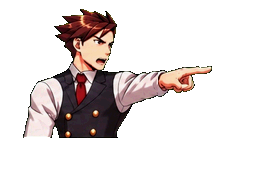
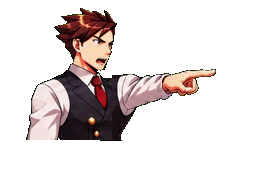
Justo: pose de apuntar con el cuerpo y el otro brazo del cuadro natural (ap13) y el brazo extendido actual
Claude-Session: https://claude.ai/code/session_01Xb94a44mJyTYV8GKKMfxw2

Changed region(s): [[0.0938, 0.0312, 0.8438, 0.75]]

diff --git a/prueba-final.html b/prueba-final.html
@@ -5,7 +5,7 @@
 <meta name="viewport" content="width=device-width, initial-scale=1">
 <title>ACTA CERO — Prueba del final</title>
 <link href="https://fonts.googleapis.com/css2?family=Bebas+Neue&family=Pixelify+Sans:wght@400;700&display=swap" rel="stylesheet">
-<link rel="stylesheet" href="css/style.css?v=90">
+<link rel="stylesheet" href="css/style.css?v=91">
 </head>
 <body>
 <div id="ds">
@@ -50,16 +50,16 @@
     <div class="hint">Activa el sonido · toca la pantalla de abajo para avanzar</div>
   </div>
 </div>
-<script src="js/casos.js?v=90"></script>
-<script src="casos/caso1.js?v=90"></script>
-<script src="casos/caso2.js?v=90"></script>
-<script src="js/audio.js?v=90"></script>
-<script src="js/sprites.js?v=90"></script>
-<script src="assets/hd/atlas.js?v=90"></script>
-<script src="js/assets.js?v=90"></script>
-<script src="js/engine.js?v=90"></script>
-<script src="js/investigacion.js?v=90"></script>
-<script src="js/musica.js?v=90"></script>
+<script src="js/casos.js?v=91"></script>
+<script src="casos/caso1.js?v=91"></script>
+<script src="casos/caso2.js?v=91"></script>
+<script src="js/audio.js?v=91"></script>
+<script src="js/sprites.js?v=91"></script>
+<script src="assets/hd/atlas.js?v=91"></script>
+<script src="js/assets.js?v=91"></script>
+<script src="js/engine.js?v=91"></script>
+<script src="js/investigacion.js?v=91"></script>
+<script src="js/musica.js?v=91"></script>
 <script>
 /* Versión de prueba: salta directo al veredicto y la escena final del Caso 1. No toca la partida guardada. */
 saveGame=function(){ return true; }; clearSave=function(){};

diff --git a/index.html b/index.html
@@ -5,7 +5,7 @@
 <meta name="viewport" content="width=device-width, initial-scale=1">
 <title>ACTA CERO</title>
 <link href="https://fonts.googleapis.com/css2?family=Bebas+Neue&family=Pixelify+Sans:wght@400;700&display=swap" rel="stylesheet">
-<link rel="stylesheet" href="css/style.css?v=90">
+<link rel="stylesheet" href="css/style.css?v=91">
 </head>
 <body>
 <div id="ds">
@@ -48,15 +48,15 @@
     <div class="hint">Activa el sonido · toca la pantalla de abajo para avanzar</div>
   </div>
 </div>
-<script src="js/casos.js?v=90"></script>
-<script src="casos/caso1.js?v=90"></script>
-<script src="casos/caso2.js?v=90"></script>
-<script src="js/audio.js?v=90"></script>
-<script src="js/sprites.js?v=90"></script>
-<script src="assets/hd/atlas.js?v=90"></script>
-<script src="js/assets.js?v=90"></script>
-<script src="js/engine.js?v=90"></script>
-<script src="js/investigacion.js?v=90"></script>
-<script src="js/musica.js?v=90"></script>
+<script src="js/casos.js?v=91"></script>
+<script src="casos/caso1.js?v=91"></script>
+<script src="casos/caso2.js?v=91"></script>
+<script src="js/audio.js?v=91"></script>
+<script src="js/sprites.js?v=91"></script>
+<script src="assets/hd/atlas.js?v=91"></script>
+<script src="js/assets.js?v=91"></script>
+<script src="js/engine.js?v=91"></script>
+<script src="js/investigacion.js?v=91"></script>
+<script src="js/musica.js?v=91"></script>
 </body>
 </html>

diff --git a/herramientas/justo_point.py b/herramientas/justo_point.py
@@ -1,0 +1,25 @@
+"""Pose «point» de Justo: cuerpo y brazo izquierdo del cuadro ap13 (natural) + brazo extendido del point actual (acortado con justo_brazo.py).
+Corta en una línea vertical dentro del chaleco, donde ambos dibujos coinciden (alineados por el chaleco: DX, DY).
+Uso: python3 herramientas/justo_point.py ORIGEN_POINT ORIGEN_POINTTALK DESTINO_DIR"""
+import sys
+import numpy as np
+from PIL import Image
+P='assets/personajes/ines/'
+DX, DY, CUT, CUT_ALTO, Y_HOMBRO = 4, 3, 112, 128, 72
+def armar(point_png, base_png=P+'ap13.png', boca_de=None):
+    pt=np.array(Image.open(point_png).convert('RGBA')); a=np.array(Image.open(base_png).convert('RGBA'))
+    ptS=np.zeros_like(pt); ptS[DY:,DX:]=pt[:-DY,:-DX]
+    out=a.copy()
+    out[:Y_HOMBRO,CUT_ALTO:]=ptS[:Y_HOMBRO,CUT_ALTO:]
+    out[Y_HOMBRO:,CUT:]=ptS[Y_HOMBRO:,CUT:]
+    hueco=(out[:,:,3]==0)&(ptS[:,:,3]>0); hueco[:,:100]=False; hueco[:60,:]=False; hueco[:78,:116]=False   # rellena el hombro donde A no tiene dibujo
+    out[hueco]=ptS[hueco]
+    if boca_de is not None:                       # boca abierta: lo que cambia entre pointTalk y point (la cabeza coincide con la de A)
+        t=np.array(Image.open(boca_de).convert('RGBA')); p0=np.array(Image.open(point_png).convert('RGBA'))
+        m=(np.abs(t.astype(int)-p0.astype(int)).sum(2)>0); m[80:,:]=False; m[:,120:]=False
+        out[m]=t[m]
+    return out
+if __name__=='__main__':
+    src_p, src_t, dst = sys.argv[1:4]
+    Image.fromarray(armar(src_p)).save(dst+'/point.png')
+    Image.fromarray(armar(src_p, boca_de=src_t)).save(dst+'/pointTalk.png')
